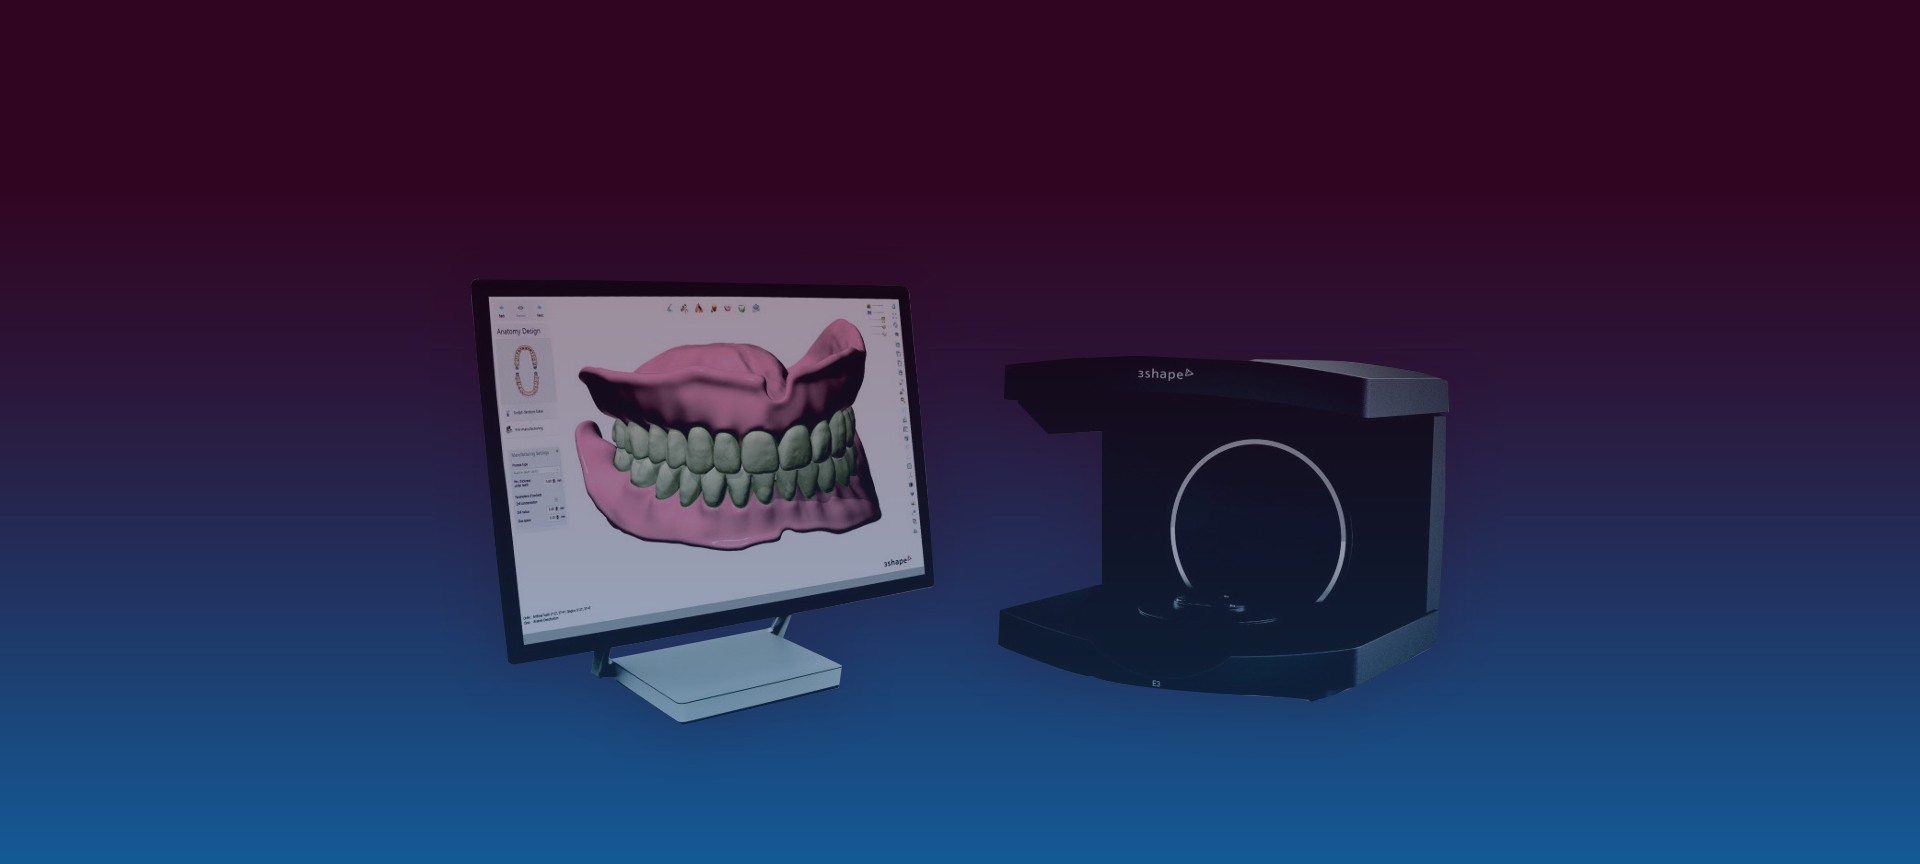
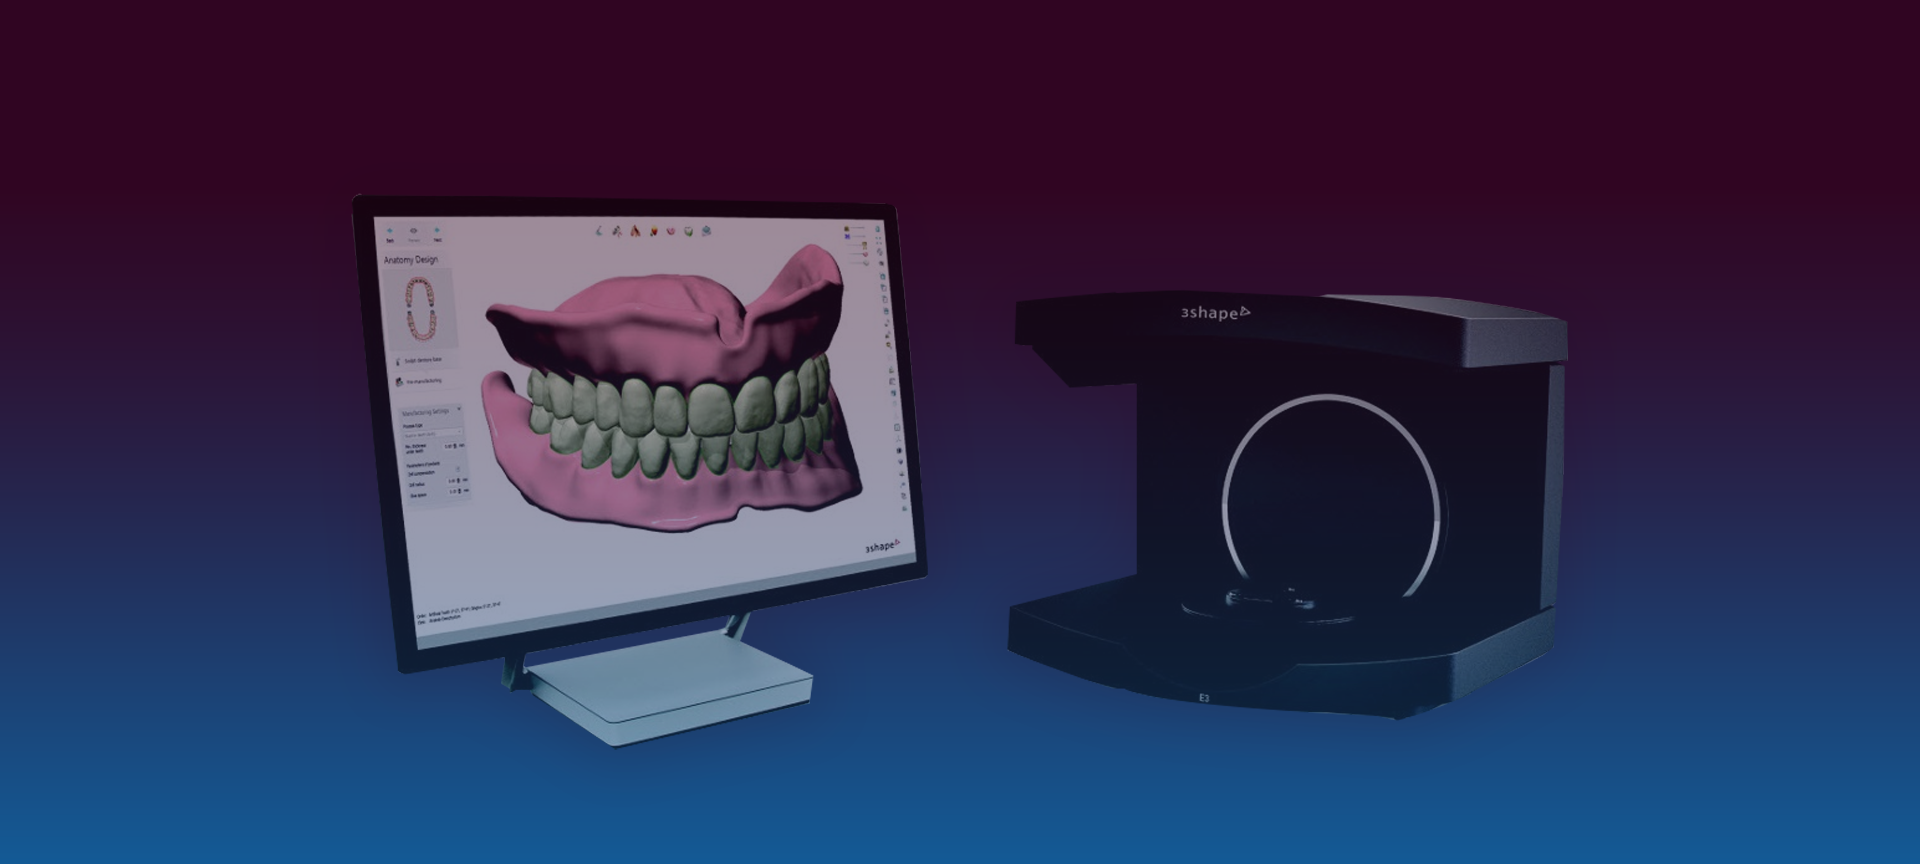
Header Image updated

Changed region(s): [[0.1875, 0.2188, 0.8438, 0.875], [0.5, 0.7188, 0.5312, 0.75]]

diff --git a/index.html b/index.html
@@ -145,7 +145,7 @@
             <div class="mask rgba-black-strong"></div>
           </div>
           <div class="carousel-caption nav-menu">
-            <h1>Milling & 3D printing</h1>
+            <h1>Milling & 3D Printing</h1>
             <p>In dentistry, dental milling is employed in the manufacture of both fixed and removable prosthodontic appliances.
               </p>
               <div class="line d-flex justify-content-center"><span></span></div>
@@ -246,9 +246,11 @@
           </div>
       </div>
     <h4>Design <br/>Cases</h4>      
-
+    <div class="d-flex justify-content-center">
     <h3 class="counter" data-TargetNum="200000" data-Speed="10000">0</h3>
-   
+  <span class="sub">+</span>
+
+   </div>
 </div>
 <div class="col-md-6 col-lg-3 col-6 project">
     <div class="d-flex justify-content-center">
@@ -460,8 +462,8 @@
     <div class="container">
        <div class="row">
         <div class="col-lg-12 col-sm-12 col-xs-12 col-md-12 text-center">
-          <h1>Workflow
-            <!-- <span>Check</span> -->
+          <h1>Our 
+            <span>Workflow</span>
           </h1>
           <div class="line d-flex justify-content-center"><span></span></div>
         </div>
@@ -500,7 +502,7 @@
             </div>
             <div class="step">Step 3</div>
             <h1>
-              Quality Check
+              3 Level QC
             </h1>
           </div>
         </div>
